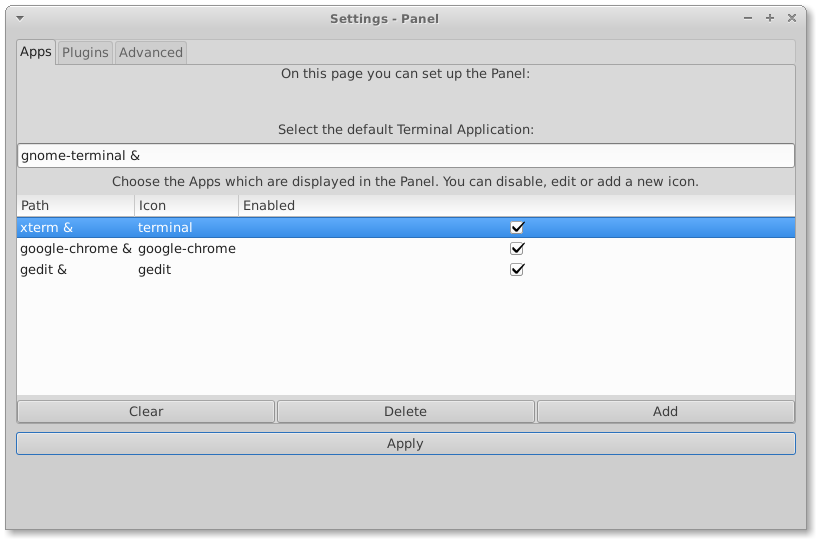
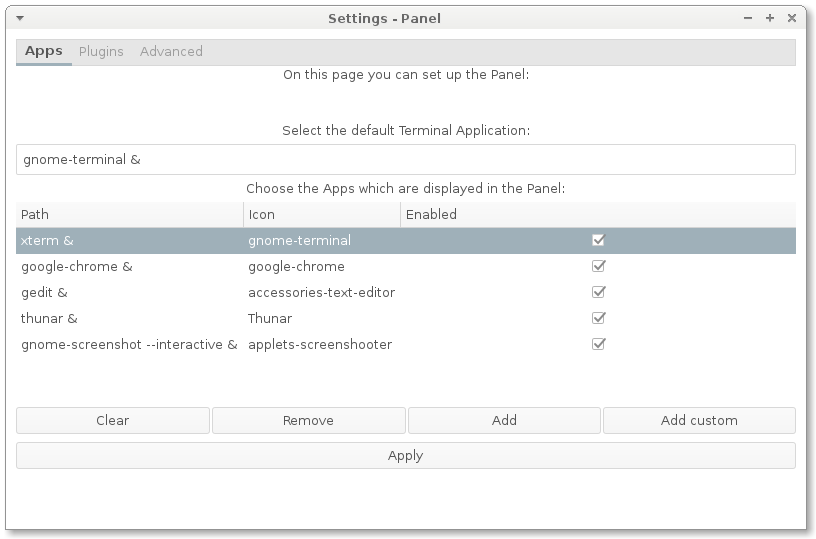
Version 0.74-3
Updated Documentation

diff --git a/shared/info.h b/shared/info.h
@@ -7,7 +7,7 @@ For more details view file 'LICENSE'
 //SOME SHARED INFOS
 
 //DESKTOP
-#define VERSION "0.74-3"
+#define VERSION "0.74-4"
 #define COPYRIGHT "Copyright (c) 2015 Marius Messerschmidt"
 #define DISCRIPTION "Simple Desktop Enviroment"
 

diff --git a/docs/manual/panel.md b/docs/manual/panel.md
@@ -1,9 +1,3 @@
-# Intro
-
-This is the User-manual for SiDE.
-
-## Panel
-
 ### Layout
 
 The Panel is normally at the bottom of your screen.
@@ -24,7 +18,7 @@ To save the changes press the Apply button.
 
 #### Apps
 
-![App Settings](img/side-panel-settings.png)
+![App Settings](../img/side-panel-settings.png)
 
 In the first entry box, you can choose your terminal. Please note,
 the terminal command must have an `&` at the end or the panel
@@ -39,9 +33,11 @@ which should be shown in the panel. You have to fill in three fields:
 
 Clear will delete _all_  favorite applications.
 
+Add will allow you to choose an app for the Panel, Add cutom will allow you to create your own shortcut.
+
 #### Plugins
 
-![Plugin Settings](img/side-panel-settings-2.png)
+![Plugin Settings](../img/side-panel-settings-2.png)
 
 You can enable or disable some plugin. Plugins extend the function of the panel.
 The panel comes with a few pre-installed plugins like `clock.so` or `user.so`.
@@ -58,7 +54,7 @@ If you want to add a new plugin you have to restart the panel, so it would be lo
 
 ### Advanced
 
-![Advanced Settings](img/side-panel-settings-3.png)
+![Advanced Settings](../img/side-panel-settings-3.png)
 
 On this page you can simply enable some built-in features of the Panel:
 
@@ -71,50 +67,3 @@ But you can also choose custom themes. This themes must be located in `/usr/shar
 and contain a valid theme (`side-panel`).
 
 To use a theme, enable the switch and select one from the list below.
-
-## Wallpaper
-
-### Layout
-
-The Wallpaper service is currently quite simple. It displays the Wallpaper ;)
-and provides a basic context menu:
-
-* Run (run dialog, see [above](#panel))
-* Change Wallpaper (opens the wallpaper settings)
-* Log Out (end session, see [above](#panel))
-
-### Options
-
-![Wallpaper Settings](img/side-wallpaper-settings.png)
-
-Here you can simply change the Wallpaper (like the [SpaceX Dragon](http://spacex.com/dragon)). Use
-Open to load a file browser, where you can select an image to use as background.
-
-__Note:__ The Image is scaled, so it should fit more or less the resolution of your screen,
-otherwise you will get bad results.
-
-Use clear to remove the current Wallpaper and use an empty window as background.
-
-## Editor
-
-### Layout
-
-![SiDE Editor](img/side-edit.png)
-
-This is how the editor looks like:
-
-You have a menu and the text editing part. Also, the title bar is displaying some infos:
-
-* Filename (or `untitled`)
-* Indicator if file was changed (`*`)
-
-The Text area highlights the current line and will also show line numbers.
-
-### Features
-
-* Indicate file changing
-* Line Highlighting
-* Line Numbers
-* show matching brackets
-* save window position + size
-* warning if work would be lost

diff --git a/docs/manual/editor.md b/docs/manual/editor.md
@@ -1,0 +1,34 @@
+### Layout
+
+![SiDE Editor](../img/side-edit.png)
+
+This is how the editor looks like:
+
+You have a menu and the text editing part. Also, the title bar is displaying some infos:
+
+* Filename (or `untitled`)
+* Indicator if file was changed (`*`)
+
+The Text area highlights the current line and will also show line numbers.
+
+### Features
+
+* Indicate file changing
+* Line Highlighting
+* Line Numbers
+* show matching brackets
+* save window position + size
+* warning if work would be lost
+
+### Shortcuts
+
+Key             | Action        |
+:-----------:   | :-----------: |
+CTRL + S        | Save          |
+CTRL + SHIFT + S| Save as       |
+CTRL + N        | New           |
+CTRL + o        | Open          |
+CTRL + Z        | Undo          |
+CTRL + Y        | Redo          |
+CTRL + ,        | Settings      |
+SHIFT + F1      | Help          |

diff --git a/docs/manual/desktop.md b/docs/manual/desktop.md
@@ -1,0 +1,20 @@
+### Layout
+
+The Wallpaper service is currently quite simple. It displays the Wallpaper ;)
+and provides a basic context menu:
+
+* Run (run dialog, see [Panel](panel.md))
+* Change Wallpaper (opens the wallpaper settings)
+* Log Out (end session, see [Panel](panel.md))
+
+### Options
+
+![Wallpaper Settings](../img/side-wallpaper-settings.png)
+
+Here you can simply change the Wallpaper (like the [S paceX Dragon](http://spacex.com/dragon)). Use
+Open to load a file browser, where you can select an image to use as background.
+
+__Note:__ The Image is scaled, so it should fit more or less the resolution of your screen,
+otherwise you will get bad results.
+
+Use clear to remove the current Wallpaper and use an empty window as background.

diff --git a/docs/index.md b/docs/index.md
@@ -1,6 +1,6 @@
 # Welcome to SiDE
 
-SiDE stands for Simple Desktop Enviroment.
+SiDE means Simple Desktop Enviroment.
 
 This is what it tries to be. Simple means 2 things:
 * Easy to use
@@ -8,15 +8,13 @@ This is what it tries to be. Simple means 2 things:
 
 For more informations visit the About tab.
 
-## Apps
+## Features
 
-* Panel
-* Wallpaper Service
-* Settings Manager
-* Notification Daemon
-* App Search
-* Session with Autostart support
+  * Comes with some basic applications
+  * Low resource usage (RAM/CPU)
+  * Theme support
+
 
 ## Version
 
-This Documentation is build for version 0.70 (unreleased).
+This Documentation is build for version 0.80 (unreleased).

diff --git a/docs/manual/view.md b/docs/manual/view.md
@@ -1,0 +1,20 @@
+### Layout
+
+![SiDE View](../img/side-view.png)
+
+This is how the Picture viewer looks like:
+
+It is seperated into three parts:
+
+A menu bar, an image display and some infos at the bottom.
+
+### Shortcuts
+
+Key          | Action        |
+:----------- | :-----------: |
+CTRL + F     | Fit Image     |
+CTRL + +     | Zoom +        |
+CTRL + -     | Zoom -        |
+CTRL + o     | Open          |
+CTRL + 0     | Original Size |
+SHIFT + F1   | Help          |
